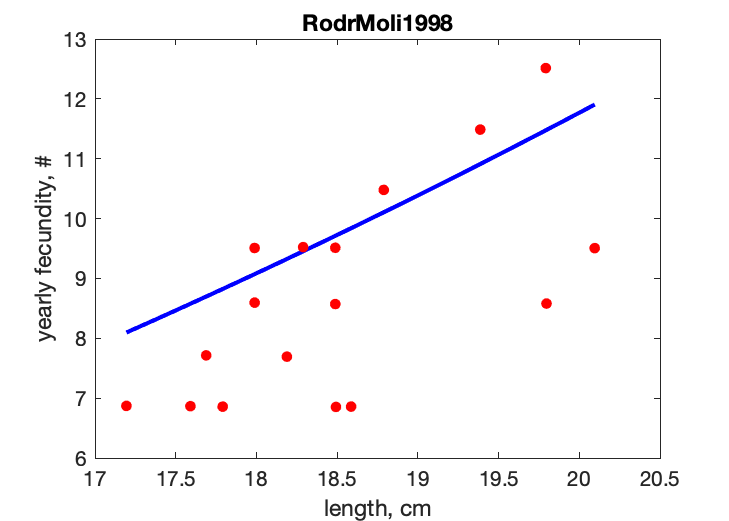
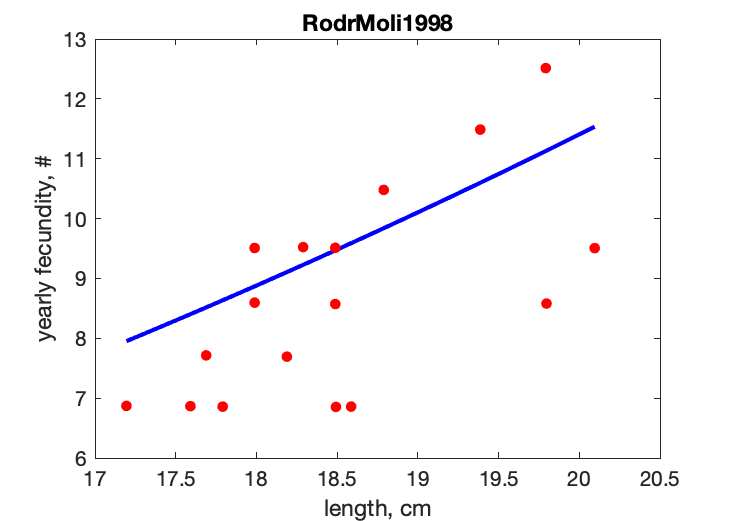
add Ww_b and initial predictions

Changed region(s): [[0.1811, 0.1843, 0.8148, 0.6756]]

diff --git a/Gallotia_simonyi_res.html b/Gallotia_simonyi_res.html
@@ -44,7 +44,7 @@
   </div>
 
   <div class="par">
-  <h4>COMPLETE = 2.4; MRE =    0.074; SMSE =    0.070 </h4>
+  <h4>COMPLETE = 2.4; MRE =    0.109; SMSE =    0.113 </h4>
   </div>
 
   <p class="clear"></p>
@@ -53,27 +53,29 @@
   <h2>Data & predictions</h2>
   <TABLE id="prd">
     <TR  class="head"><TH>data</TH> <TH>prd</TH> <TH>RE</TH>  <TH>symbol</TH> <TH>units</TH> <TH>description</TH> </TR>
-    <TR><TD> 56</TD> <TD>59.18</TD> <TD>0.05673</TD> <TD>ab</TD> <TD>d</TD> <TD>age at birth</TD></TR>
-    <TR><TD>1050</TD> <TD>1086</TD> <TD>0.03446</TD> <TD>tp</TD> <TD>d</TD> <TD>time since birth at puberty</TD></TR>
-    <TR><TD>3990</TD> <TD>3978</TD> <TD>0.003077</TD> <TD>am</TD> <TD>d</TD> <TD>life span</TD></TR>
-    <TR><TD>5.29</TD> <TD>4.844</TD> <TD>0.0844</TD> <TD>Lb</TD> <TD>cm</TD> <TD>SVL at hatching</TD></TR>
-    <TR><TD>13.1</TD> <TD>12.35</TD> <TD>0.05748</TD> <TD>Lp</TD> <TD>cm</TD> <TD>SVL at puberty</TD></TR>
-    <TR><TD>13.5</TD> <TD>13.55</TD> <TD>0.003747</TD> <TD>Lpm</TD> <TD>cm</TD> <TD>SVL at puberty males</TD></TR>
-    <TR><TD>16.5</TD> <TD>18.38</TD> <TD>0.1141</TD> <TD>Li</TD> <TD>cm</TD> <TD>ultimate SVL</TD></TR>
-    <TR><TD>19.4</TD> <TD>21.41</TD> <TD>0.1038</TD> <TD>Lim</TD> <TD>cm</TD> <TD>ultimate SVL males</TD></TR>
-    <TR><TD>89.35</TD> <TD>90.5</TD> <TD>0.01289</TD> <TD>Wwi</TD> <TD>g</TD> <TD>ultimate wet weight</TD></TR>
-    <TR><TD>151</TD> <TD>146.4</TD> <TD>0.03076</TD> <TD>Wwim</TD> <TD>g</TD> <TD>ultimate wet males</TD></TR>
-    <TR><TD>0.02356</TD> <TD>0.02095</TD> <TD>0.1108</TD> <TD>Ri</TD> <TD>#/d</TD> <TD>maximum reprod rate</TD></TR>
-    <TR><TD colspan="2">see figure</TD> <TD>0.1552</TD> <TD>LN</TD> <TD colspan="2">length, <font color="blue"><i>vs.</i></font> yearly fecundity</TD>
-    <TR><TD colspan="2">see figure</TD> <TD>0.1529</TD> <TD>tL_j</TD> <TD colspan="2">time since birth, <font color="blue"><i>vs.</i></font> SVL</TD>
-    <TR><TD colspan="2">see figure</TD> <TD>0.1108</TD> <TD>tL</TD> <TD colspan="2">time since birth, <font color="blue"><i>vs.</i></font> SVL</TD>
-    <TR class="psd"><TD>0.02</TD> <TD>0.06629</TD> <TD>2.315</TD> <TD>psd.v</TD> <TD>cm/d</TD> <TD>energy conductance</TD></TR>
-    <TR class="psd"><TD>0.8</TD> <TD>0.7738</TD> <TD>0.03275</TD> <TD>psd.kap</TD> <TD>-</TD> <TD>allocation fraction to soma</TD></TR>
+    <TR><TD> 56</TD> <TD>61.63</TD> <TD>0.1006</TD> <TD>ab</TD> <TD>d</TD> <TD>age at birth</TD></TR>
+    <TR><TD>1050</TD> <TD>1018</TD> <TD>0.03015</TD> <TD>tp</TD> <TD>d</TD> <TD>time since birth at puberty</TD></TR>
+    <TR><TD>3990</TD> <TD>4358</TD> <TD>0.09213</TD> <TD>am</TD> <TD>d</TD> <TD>life span</TD></TR>
+    <TR><TD>5.29</TD> <TD>5.254</TD> <TD>0.006793</TD> <TD>Lb</TD> <TD>cm</TD> <TD>SVL at hatching</TD></TR>
+    <TR><TD>13.1</TD> <TD>12.54</TD> <TD>0.04255</TD> <TD>Lp</TD> <TD>cm</TD> <TD>SVL at puberty</TD></TR>
+    <TR><TD>13.5</TD> <TD>11.63</TD> <TD>0.1383</TD> <TD>Lpm</TD> <TD>cm</TD> <TD>SVL at puberty males</TD></TR>
+    <TR><TD>16.5</TD> <TD>17.02</TD> <TD>0.03134</TD> <TD>Li</TD> <TD>cm</TD> <TD>ultimate SVL</TD></TR>
+    <TR><TD>19.4</TD> <TD>19.7</TD> <TD>0.01542</TD> <TD>Lim</TD> <TD>cm</TD> <TD>ultimate SVL males</TD></TR>
+    <TR><TD>5.2</TD> <TD>4.194</TD> <TD>0.1934</TD> <TD>Ww0</TD> <TD>g</TD> <TD>wet weight of eggs</TD></TR>
+    <TR><TD>3.95</TD> <TD>2.746</TD> <TD>0.3047</TD> <TD>Wwb</TD> <TD>g</TD> <TD>wet weight of hatchlings</TD></TR>
+    <TR><TD>89.35</TD> <TD>93.3</TD> <TD>0.04426</TD> <TD>Wwi</TD> <TD>g</TD> <TD>ultimate wet weight</TD></TR>
+    <TR><TD>151</TD> <TD>148.5</TD> <TD>0.01686</TD> <TD>Wwim</TD> <TD>g</TD> <TD>ultimate wet males</TD></TR>
+    <TR><TD>0.02356</TD> <TD>0.01697</TD> <TD>0.2798</TD> <TD>Ri</TD> <TD>#/d</TD> <TD>maximum reprod rate</TD></TR>
+    <TR><TD colspan="2">see figure</TD> <TD>0.146</TD> <TD>LN</TD> <TD colspan="2">length, <font color="blue"><i>vs.</i></font> yearly fecundity</TD>
+    <TR><TD colspan="2">see figure</TD> <TD>0.1891</TD> <TD>tL_j</TD> <TD colspan="2">time since birth, <font color="blue"><i>vs.</i></font> SVL</TD>
+    <TR><TD colspan="2">see figure</TD> <TD>0.109</TD> <TD>tL</TD> <TD colspan="2">time since birth, <font color="blue"><i>vs.</i></font> SVL</TD>
+    <TR class="psd"><TD>0.02</TD> <TD>0.07284</TD> <TD>2.642</TD> <TD>psd.v</TD> <TD>cm/d</TD> <TD>energy conductance</TD></TR>
+    <TR class="psd"><TD>0.8</TD> <TD>0.7711</TD> <TD>0.03615</TD> <TD>psd.kap</TD> <TD>-</TD> <TD>allocation fraction to soma</TD></TR>
     <TR class="psd"><TD>0.95</TD> <TD>0.95</TD> <TD>  0</TD> <TD>psd.kap_R</TD> <TD>-</TD> <TD>reproduction efficiency</TD></TR>
-    <TR class="psd"><TD> 18</TD> <TD>13.5</TD> <TD>0.2502</TD> <TD>psd.p_M</TD> <TD>J/d.cm^3</TD> <TD>vol-spec som maint</TD></TR>
-    <TR class="psd"><TD>0.002</TD> <TD>0.000514</TD> <TD>0.743</TD> <TD>psd.k_J</TD> <TD>1/d</TD> <TD>maturity maint rate coefficient</TD></TR>
-    <TR class="psd"><TD>0.8</TD> <TD>0.7981</TD> <TD>0.00234</TD> <TD>psd.kap_G</TD> <TD>-</TD> <TD>growth efficiency</TD></TR>
-    <TR class="psd"><TD>0.3</TD> <TD>0.2995</TD> <TD>0.001755</TD> <TD>psd.k</TD> <TD>-</TD> <TD>maintenance ratio</TD></TR>
+    <TR class="psd"><TD> 18</TD> <TD>17.8</TD> <TD>0.01113</TD> <TD>psd.p_M</TD> <TD>J/d.cm^3</TD> <TD>vol-spec som maint</TD></TR>
+    <TR class="psd"><TD>0.002</TD> <TD>0.0003357</TD> <TD>0.8322</TD> <TD>psd.k_J</TD> <TD>1/d</TD> <TD>maturity maint rate coefficient</TD></TR>
+    <TR class="psd"><TD>0.8</TD> <TD>0.7863</TD> <TD>0.01711</TD> <TD>psd.kap_G</TD> <TD>-</TD> <TD>growth efficiency</TD></TR>
+    <TR class="psd"><TD>0.3</TD> <TD>0.1505</TD> <TD>0.4983</TD> <TD>psd.k</TD> <TD>-</TD> <TD>maintenance ratio</TD></TR>
   </TABLE>
   </div>
 
@@ -83,27 +85,27 @@
     <TR class="head"><TH>symbol</TH> <TH>units</TH> <TH>value</TH>  <TH>free</TH> <TH>description</TH> </TR>
     <TR><TD>T_ref</TD> <TD>K</TD> <TD>293.1</TD> <TD>0</TD> <TD>Reference temperature</TD></TR>
     <TR><TD>T_A</TD> <TD>K</TD> <TD>8000</TD> <TD>0</TD> <TD>Arrhenius temperature</TD></TR>
-    <TR><TD>z</TD> <TD>-</TD> <TD>4.27</TD> <TD>1</TD> <TD>zoom factor for females</TD></TR>
+    <TR><TD>z</TD> <TD>-</TD> <TD>4.273</TD> <TD>1</TD> <TD>zoom factor for females</TD></TR>
     <TR><TD>F_m</TD> <TD>l/d.cm^2</TD> <TD>6.5</TD> <TD>0</TD> <TD>{F_m}, max spec searching rate</TD></TR>
     <TR><TD>kap_X</TD> <TD>-</TD> <TD>0.8</TD> <TD>0</TD> <TD>digestion efficiency of food to reserve</TD></TR>
     <TR><TD>kap_P</TD> <TD>-</TD> <TD>0.1</TD> <TD>0</TD> <TD>faecation efficiency of food to faeces</TD></TR>
-    <TR><TD>v</TD> <TD>cm/d</TD> <TD>0.06629</TD> <TD>1</TD> <TD>energy conductance</TD></TR>
-    <TR><TD>kap</TD> <TD>-</TD> <TD>0.7738</TD> <TD>1</TD> <TD>allocation fraction to soma</TD></TR>
+    <TR><TD>v</TD> <TD>cm/d</TD> <TD>0.07284</TD> <TD>1</TD> <TD>energy conductance</TD></TR>
+    <TR><TD>kap</TD> <TD>-</TD> <TD>0.7711</TD> <TD>1</TD> <TD>allocation fraction to soma</TD></TR>
     <TR><TD>kap_R</TD> <TD>-</TD> <TD>0.95</TD> <TD>0</TD> <TD>reproduction efficiency</TD></TR>
-    <TR><TD>p_M</TD> <TD>J/d.cm^3</TD> <TD>13.5</TD> <TD>1</TD> <TD>[p_M], vol-spec somatic maint</TD></TR>
+    <TR><TD>p_M</TD> <TD>J/d.cm^3</TD> <TD>17.8</TD> <TD>1</TD> <TD>[p_M], vol-spec somatic maint</TD></TR>
     <TR><TD>p_T</TD> <TD>J/d.cm^2</TD> <TD>  0</TD> <TD>0</TD> <TD>{p_T}, surf-spec somatic maint</TD></TR>
-    <TR><TD>k_J</TD> <TD>1/d</TD> <TD>0.000514</TD> <TD>1</TD> <TD>maturity maint rate coefficient</TD></TR>
-    <TR><TD>E_G</TD> <TD>J/cm^3</TD> <TD>7864</TD> <TD>1</TD> <TD>[E_G], spec cost for structure</TD></TR>
-    <TR><TD>E_Hb</TD> <TD>J</TD> <TD>3423</TD> <TD>1</TD> <TD>maturity at birth</TD></TR>
-    <TR><TD>E_Hp</TD> <TD>J</TD> <TD>9.153e+04</TD> <TD>1</TD> <TD>maturity at puberty</TD></TR>
-    <TR><TD>h_a</TD> <TD>1/d^2</TD> <TD>1.449e-09</TD> <TD>1</TD> <TD>Weibull aging acceleration</TD></TR>
+    <TR><TD>k_J</TD> <TD>1/d</TD> <TD>0.0003357</TD> <TD>1</TD> <TD>maturity maint rate coefficient</TD></TR>
+    <TR><TD>E_G</TD> <TD>J/cm^3</TD> <TD>7982</TD> <TD>1</TD> <TD>[E_G], spec cost for structure</TD></TR>
+    <TR><TD>E_Hb</TD> <TD>J</TD> <TD>5842</TD> <TD>1</TD> <TD>maturity at birth</TD></TR>
+    <TR><TD>E_Hp</TD> <TD>J</TD> <TD>1.608e+05</TD> <TD>1</TD> <TD>maturity at puberty</TD></TR>
+    <TR><TD>h_a</TD> <TD>1/d^2</TD> <TD>1.003e-09</TD> <TD>1</TD> <TD>Weibull aging acceleration</TD></TR>
     <TR><TD>s_G</TD> <TD>-</TD> <TD>0.0001</TD> <TD>0</TD> <TD>Gompertz stress coefficient</TD></TR>
-    <TR><TD>E_Hpm</TD> <TD>J</TD> <TD>7.364e+04</TD> <TD>1</TD> <TD>maturity at puberty for males</TD></TR>
-    <TR><TD>del_M</TD> <TD>-</TD> <TD>0.2323</TD> <TD>1</TD> <TD>shape coefficient</TD></TR>
+    <TR><TD>E_Hpm</TD> <TD>J</TD> <TD>6.618e+04</TD> <TD>1</TD> <TD>maturity at puberty for males</TD></TR>
+    <TR><TD>del_M</TD> <TD>-</TD> <TD>0.2511</TD> <TD>1</TD> <TD>shape coefficient</TD></TR>
     <TR><TD>f</TD> <TD>-</TD> <TD>  1</TD> <TD>0</TD> <TD>scaled functional response for 0-var data</TD></TR>
     <TR><TD>f_LN</TD> <TD>-</TD> <TD>  1</TD> <TD>0</TD> <TD>scaled functional response for LN data</TD></TR>
     <TR><TD>f_tL</TD> <TD>-</TD> <TD>  1</TD> <TD>0</TD> <TD>scaled functional response for tL data</TD></TR>
-    <TR><TD>z_m</TD> <TD>-</TD> <TD>4.974</TD> <TD>1</TD> <TD>zoom factor for males</TD></TR>
+    <TR><TD>z_m</TD> <TD>-</TD> <TD>4.946</TD> <TD>1</TD> <TD>zoom factor for males</TD></TR>
   </TABLE>
   </div>
 

diff --git a/predict_Gallotia_simonyi.m b/predict_Gallotia_simonyi.m
@@ -18,10 +18,16 @@ function [prdData, info] = predict_Gallotia_simonyi(par, data, auxData)
   pars_tp = [g k l_T v_Hb v_Hp];
   [t_p, t_b, l_p, l_b, info] = get_tp(pars_tp, f);
   
+  % initial
+  pars_UE0 = [V_Hb; g; k_J; k_M; v]; % compose parameter vector
+  U_E0 = initial_scaled_reserve(f, pars_UE0); % d.cm^2, initial scaled reserve
+  Ww_0 = U_E0 * p_Am * w_E/ mu_E/ d_E; % g, egg wet weight
+
   % birth
   L_b = L_m * l_b;                  % cm, structural length at birth at f
   Lw_b = L_b/ del_M;                % cm, SVL at birth
   aT_b = t_b/ k_M/ TC_ab;           % d, age at birth at f and T
+  Ww_b = L_b^3 * (1 + f * w);       % g, wet weight at birth at f
 
   % puberty 
   L_p = L_m * l_p;                  % cm, structural length at puberty
@@ -64,6 +70,8 @@ function [prdData, info] = predict_Gallotia_simonyi(par, data, auxData)
   prdData.Lpm = Lw_pm;
   prdData.Li = Lw_i;
   prdData.Lim = Lw_im;
+  prdData.Ww0 = Ww_0;
+  prdData.Wwb = Ww_b;
   prdData.Wwi = Ww_i;
   prdData.Wwim = Ww_im;
   prdData.Ri = RT_i;
